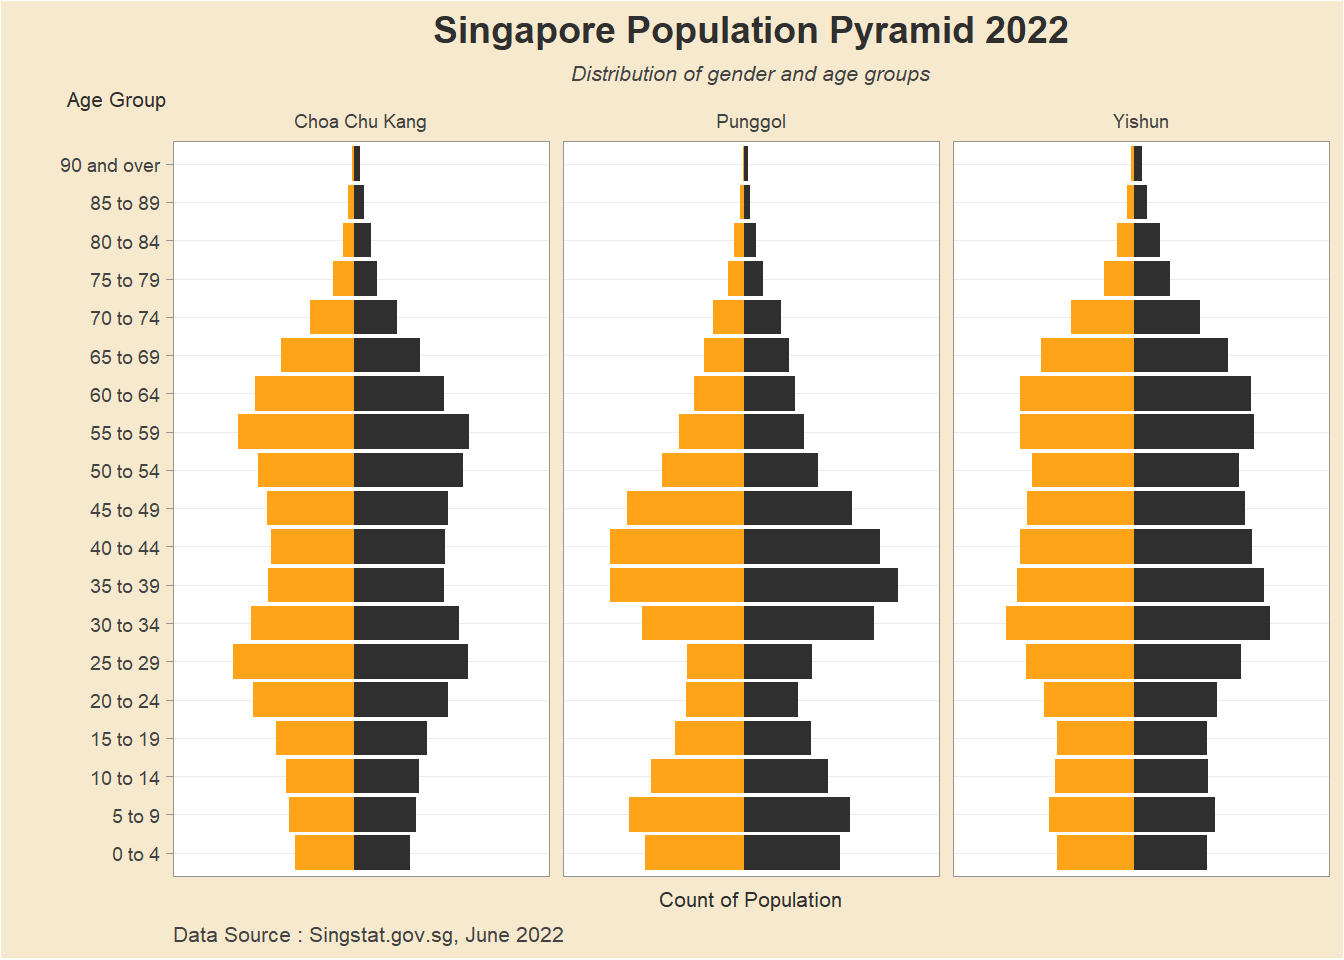
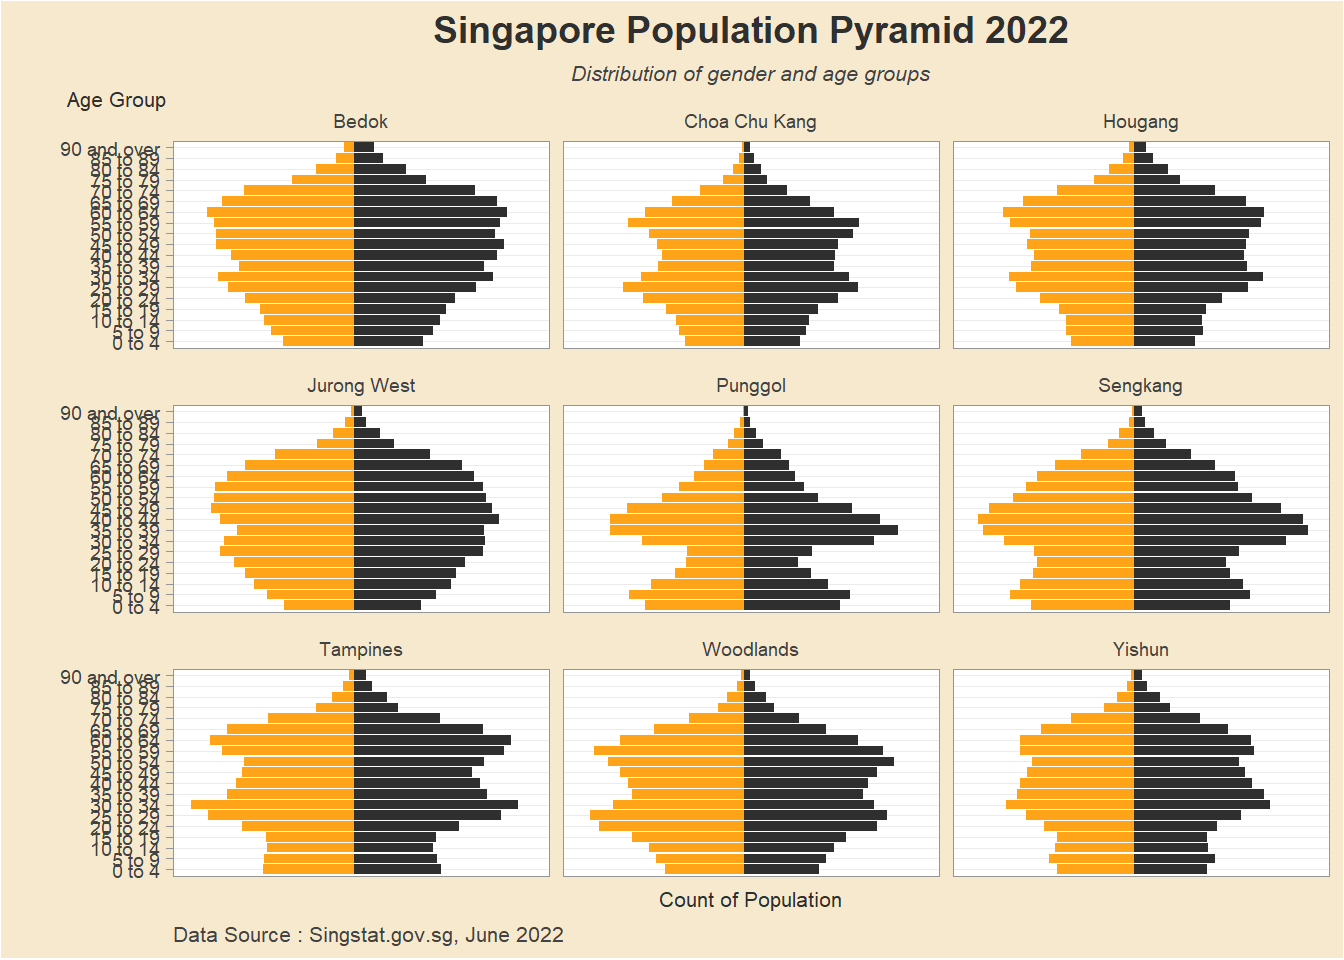
th_ex2 v1.2.1 <- minute.update(missing gender in facet grid)

Changed region(s): [[0.0312, 0.0938, 1.0, 0.9375]]

diff --git a/_site/takeHome/th_ex2/th_ex2.html b/_site/takeHome/th_ex2/th_ex2.html
@@ -1127,14 +1127,14 @@ argument.</code></pre>
 </div>
 <div class="callout-body-container">
 <div class="cell">
-<div class="sourceCode cell-code" id="cb28"><pre class="sourceCode r code-with-copy"><code class="sourceCode r"><span id="cb28-1"><a href="#cb28-1" aria-hidden="true" tabindex="-1"></a>pop_males <span class="ot">&lt;-</span> t9_filtered <span class="sc">%&gt;%</span></span>
+<div class="sourceCode cell-code" id="cb28"><pre class="sourceCode r code-with-copy"><code class="sourceCode r"><span id="cb28-1"><a href="#cb28-1" aria-hidden="true" tabindex="-1"></a>pop_males <span class="ot">&lt;-</span> t19_filtered <span class="sc">%&gt;%</span></span>
 <span id="cb28-2"><a href="#cb28-2" aria-hidden="true" tabindex="-1"></a>  <span class="fu">filter</span>(sex <span class="sc">%in%</span></span>
 <span id="cb28-3"><a href="#cb28-3" aria-hidden="true" tabindex="-1"></a>           <span class="fu">c</span>(<span class="st">"Males"</span>)) <span class="sc">%&gt;%</span></span>
 <span id="cb28-4"><a href="#cb28-4" aria-hidden="true" tabindex="-1"></a>  <span class="fu">mutate</span>(<span class="at">pct =</span> scales<span class="sc">::</span><span class="fu">percent</span>((count_pop<span class="sc">/</span><span class="fu">sum</span>(count_pop)), <span class="at">accuracy =</span> <span class="fl">0.01</span>),</span>
 <span id="cb28-5"><a href="#cb28-5" aria-hidden="true" tabindex="-1"></a>         <span class="at">res =</span> <span class="fu">str_c</span>(count_pop, <span class="st">", "</span>, pct))</span></code><button title="Copy to Clipboard" class="code-copy-button"><i class="bi"></i></button></pre></div>
 </div>
 <div class="cell">
-<div class="sourceCode cell-code" id="cb29"><pre class="sourceCode r code-with-copy"><code class="sourceCode r"><span id="cb29-1"><a href="#cb29-1" aria-hidden="true" tabindex="-1"></a>pop_females <span class="ot">&lt;-</span> t9_filtered <span class="sc">%&gt;%</span></span>
+<div class="sourceCode cell-code" id="cb29"><pre class="sourceCode r code-with-copy"><code class="sourceCode r"><span id="cb29-1"><a href="#cb29-1" aria-hidden="true" tabindex="-1"></a>pop_females <span class="ot">&lt;-</span> t19_filtered <span class="sc">%&gt;%</span></span>
 <span id="cb29-2"><a href="#cb29-2" aria-hidden="true" tabindex="-1"></a>  <span class="fu">filter</span>(sex <span class="sc">%in%</span></span>
 <span id="cb29-3"><a href="#cb29-3" aria-hidden="true" tabindex="-1"></a>           <span class="fu">c</span>(<span class="st">"Females"</span>)) <span class="sc">%&gt;%</span></span>
 <span id="cb29-4"><a href="#cb29-4" aria-hidden="true" tabindex="-1"></a>  <span class="fu">mutate</span>(<span class="at">pct =</span> scales<span class="sc">::</span><span class="fu">percent</span>((count_pop<span class="sc">/</span><span class="fu">sum</span>(count_pop)), <span class="at">accuracy =</span> <span class="fl">0.01</span>),</span>
@@ -1287,15 +1287,15 @@ argument.</code></pre>
 </div>
 <p>4.1.3 <strong>Plot Trall Population Pyramid (Static)</strong></p>
 <div class="cell">
-<div class="sourceCode cell-code" id="cb32"><pre class="sourceCode r code-with-copy"><code class="sourceCode r"><span id="cb32-1"><a href="#cb32-1" aria-hidden="true" tabindex="-1"></a>popPyr_t9 <span class="ot">&lt;-</span> <span class="fu">ggplot</span>() <span class="sc">+</span></span>
-<span id="cb32-2"><a href="#cb32-2" aria-hidden="true" tabindex="-1"></a>  <span class="fu">geom_bar</span>(<span class="at">data =</span> <span class="fu">subset</span>(t9_filtered, </span>
+<div class="sourceCode cell-code" id="cb32"><pre class="sourceCode r code-with-copy"><code class="sourceCode r"><span id="cb32-1"><a href="#cb32-1" aria-hidden="true" tabindex="-1"></a>popPyr_t19 <span class="ot">&lt;-</span> <span class="fu">ggplot</span>() <span class="sc">+</span></span>
+<span id="cb32-2"><a href="#cb32-2" aria-hidden="true" tabindex="-1"></a>  <span class="fu">geom_bar</span>(<span class="at">data =</span> <span class="fu">subset</span>(t19_filtered, </span>
 <span id="cb32-3"><a href="#cb32-3" aria-hidden="true" tabindex="-1"></a>                         sex <span class="sc">==</span> <span class="st">"Males"</span>), </span>
 <span id="cb32-4"><a href="#cb32-4" aria-hidden="true" tabindex="-1"></a>           <span class="fu">aes</span>(<span class="at">x =</span> ag, </span>
 <span id="cb32-5"><a href="#cb32-5" aria-hidden="true" tabindex="-1"></a>               <span class="at">y =</span> <span class="sc">-</span>count_pop, </span>
 <span id="cb32-6"><a href="#cb32-6" aria-hidden="true" tabindex="-1"></a>               <span class="at">fill =</span> pa),</span>
 <span id="cb32-7"><a href="#cb32-7" aria-hidden="true" tabindex="-1"></a>           <span class="at">stat =</span> <span class="st">"identity"</span>, </span>
 <span id="cb32-8"><a href="#cb32-8" aria-hidden="true" tabindex="-1"></a>           <span class="at">fill =</span> <span class="st">"#FFA319FF"</span>) <span class="sc">+</span></span>
-<span id="cb32-9"><a href="#cb32-9" aria-hidden="true" tabindex="-1"></a>  <span class="fu">geom_bar</span>(<span class="at">data =</span> <span class="fu">subset</span>(t9_filtered, </span>
+<span id="cb32-9"><a href="#cb32-9" aria-hidden="true" tabindex="-1"></a>  <span class="fu">geom_bar</span>(<span class="at">data =</span> <span class="fu">subset</span>(t19_filtered, </span>
 <span id="cb32-10"><a href="#cb32-10" aria-hidden="true" tabindex="-1"></a>                         sex <span class="sc">==</span> <span class="st">"Females"</span>), </span>
 <span id="cb32-11"><a href="#cb32-11" aria-hidden="true" tabindex="-1"></a>           <span class="fu">aes</span>(<span class="at">x =</span> ag, </span>
 <span id="cb32-12"><a href="#cb32-12" aria-hidden="true" tabindex="-1"></a>               <span class="at">y =</span> count_pop, </span>
@@ -1364,13 +1364,13 @@ argument.</code></pre>
 <span id="cb32-75"><a href="#cb32-75" aria-hidden="true" tabindex="-1"></a>        <span class="at">panel.border =</span> <span class="fu">element_rect</span>(<span class="at">colour =</span> <span class="st">"#969595"</span>,</span>
 <span id="cb32-76"><a href="#cb32-76" aria-hidden="true" tabindex="-1"></a>                                    <span class="at">linewidth =</span> <span class="fl">0.3</span>)) </span>
 <span id="cb32-77"><a href="#cb32-77" aria-hidden="true" tabindex="-1"></a></span>
-<span id="cb32-78"><a href="#cb32-78" aria-hidden="true" tabindex="-1"></a>popPyr_t9</span></code><button title="Copy to Clipboard" class="code-copy-button"><i class="bi"></i></button></pre></div>
+<span id="cb32-78"><a href="#cb32-78" aria-hidden="true" tabindex="-1"></a>popPyr_t19</span></code><button title="Copy to Clipboard" class="code-copy-button"><i class="bi"></i></button></pre></div>
 <div class="cell-output-display">
 <p><img src="th_ex2_files/figure-html/unnamed-chunk-20-1.png" class="img-fluid" width="672"></p>
 </div>
 </div>
 <div class="cell">
-<div class="sourceCode cell-code" id="cb33"><pre class="sourceCode r code-with-copy"><code class="sourceCode r"><span id="cb33-1"><a href="#cb33-1" aria-hidden="true" tabindex="-1"></a>popPyr_t9.fg <span class="ot">&lt;-</span> <span class="fu">ggplot</span>() <span class="sc">+</span></span>
+<div class="sourceCode cell-code" id="cb33"><pre class="sourceCode r code-with-copy"><code class="sourceCode r"><span id="cb33-1"><a href="#cb33-1" aria-hidden="true" tabindex="-1"></a>popPyr_t19.fg <span class="ot">&lt;-</span> <span class="fu">ggplot</span>() <span class="sc">+</span></span>
 <span id="cb33-2"><a href="#cb33-2" aria-hidden="true" tabindex="-1"></a>  <span class="fu">geom_bar</span>(<span class="at">data =</span> <span class="fu">subset</span>(t19_filtered, </span>
 <span id="cb33-3"><a href="#cb33-3" aria-hidden="true" tabindex="-1"></a>                         sex <span class="sc">==</span> <span class="st">"Males"</span>), </span>
 <span id="cb33-4"><a href="#cb33-4" aria-hidden="true" tabindex="-1"></a>           <span class="fu">aes</span>(<span class="at">x =</span> ag, </span>
@@ -1378,7 +1378,7 @@ argument.</code></pre>
 <span id="cb33-6"><a href="#cb33-6" aria-hidden="true" tabindex="-1"></a>               <span class="at">fill =</span> pa),</span>
 <span id="cb33-7"><a href="#cb33-7" aria-hidden="true" tabindex="-1"></a>           <span class="at">stat =</span> <span class="st">"identity"</span>, </span>
 <span id="cb33-8"><a href="#cb33-8" aria-hidden="true" tabindex="-1"></a>           <span class="at">fill =</span> <span class="st">"#FFA319FF"</span>) <span class="sc">+</span></span>
-<span id="cb33-9"><a href="#cb33-9" aria-hidden="true" tabindex="-1"></a>  <span class="fu">geom_bar</span>(<span class="at">data =</span> <span class="fu">subset</span>(t9_filtered, </span>
+<span id="cb33-9"><a href="#cb33-9" aria-hidden="true" tabindex="-1"></a>  <span class="fu">geom_bar</span>(<span class="at">data =</span> <span class="fu">subset</span>(t19_filtered, </span>
 <span id="cb33-10"><a href="#cb33-10" aria-hidden="true" tabindex="-1"></a>                         sex <span class="sc">==</span> <span class="st">"Females"</span>), </span>
 <span id="cb33-11"><a href="#cb33-11" aria-hidden="true" tabindex="-1"></a>           <span class="fu">aes</span>(<span class="at">x =</span> ag, </span>
 <span id="cb33-12"><a href="#cb33-12" aria-hidden="true" tabindex="-1"></a>               <span class="at">y =</span> count_pop, </span>
@@ -1444,7 +1444,7 @@ argument.</code></pre>
 <span id="cb33-72"><a href="#cb33-72" aria-hidden="true" tabindex="-1"></a>        <span class="at">panel.border =</span> <span class="fu">element_rect</span>(<span class="at">colour =</span> <span class="st">"#969595"</span>,</span>
 <span id="cb33-73"><a href="#cb33-73" aria-hidden="true" tabindex="-1"></a>                                    <span class="at">linewidth =</span> <span class="fl">0.3</span>)) </span>
 <span id="cb33-74"><a href="#cb33-74" aria-hidden="true" tabindex="-1"></a></span>
-<span id="cb33-75"><a href="#cb33-75" aria-hidden="true" tabindex="-1"></a>popPyr_t9.fg</span></code><button title="Copy to Clipboard" class="code-copy-button"><i class="bi"></i></button></pre></div>
+<span id="cb33-75"><a href="#cb33-75" aria-hidden="true" tabindex="-1"></a>popPyr_t19.fg</span></code><button title="Copy to Clipboard" class="code-copy-button"><i class="bi"></i></button></pre></div>
 <div class="cell-output-display">
 <p><img src="th_ex2_files/figure-html/unnamed-chunk-21-1.png" class="img-fluid" width="672"></p>
 </div>
